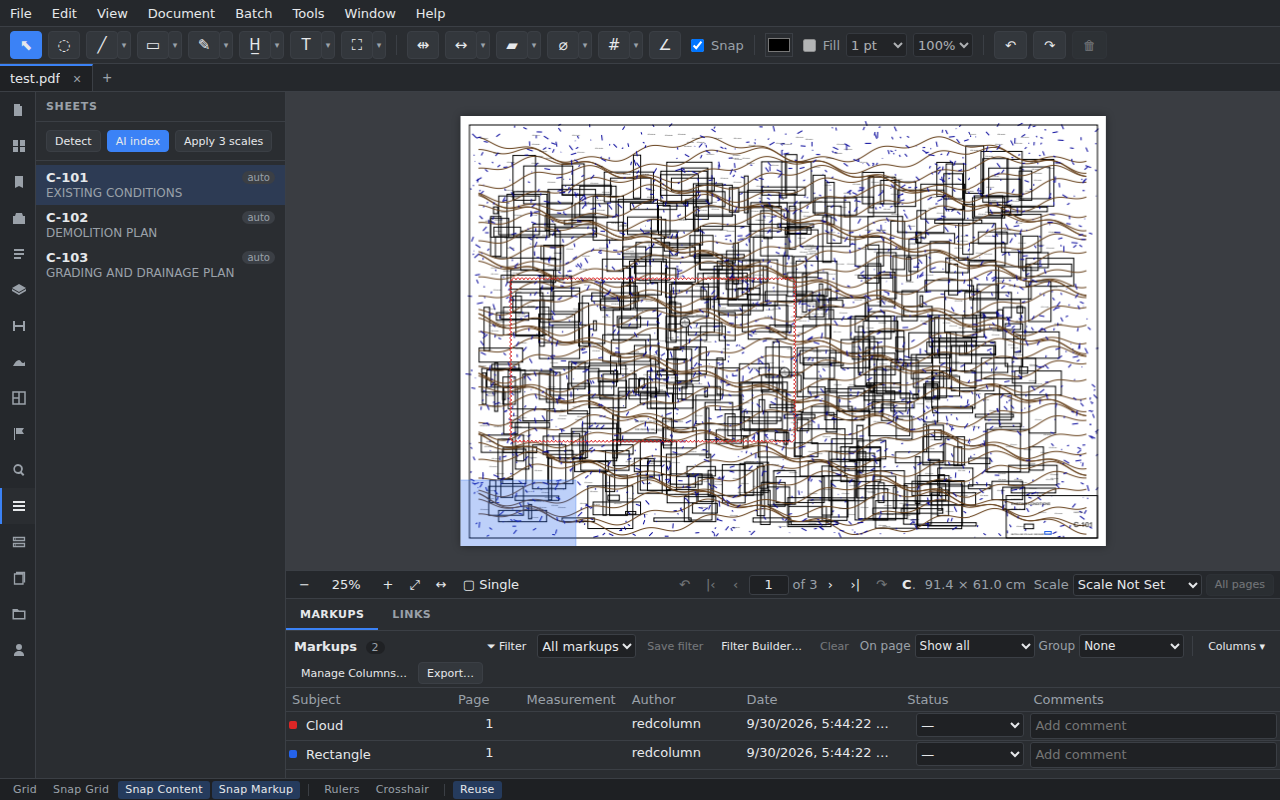
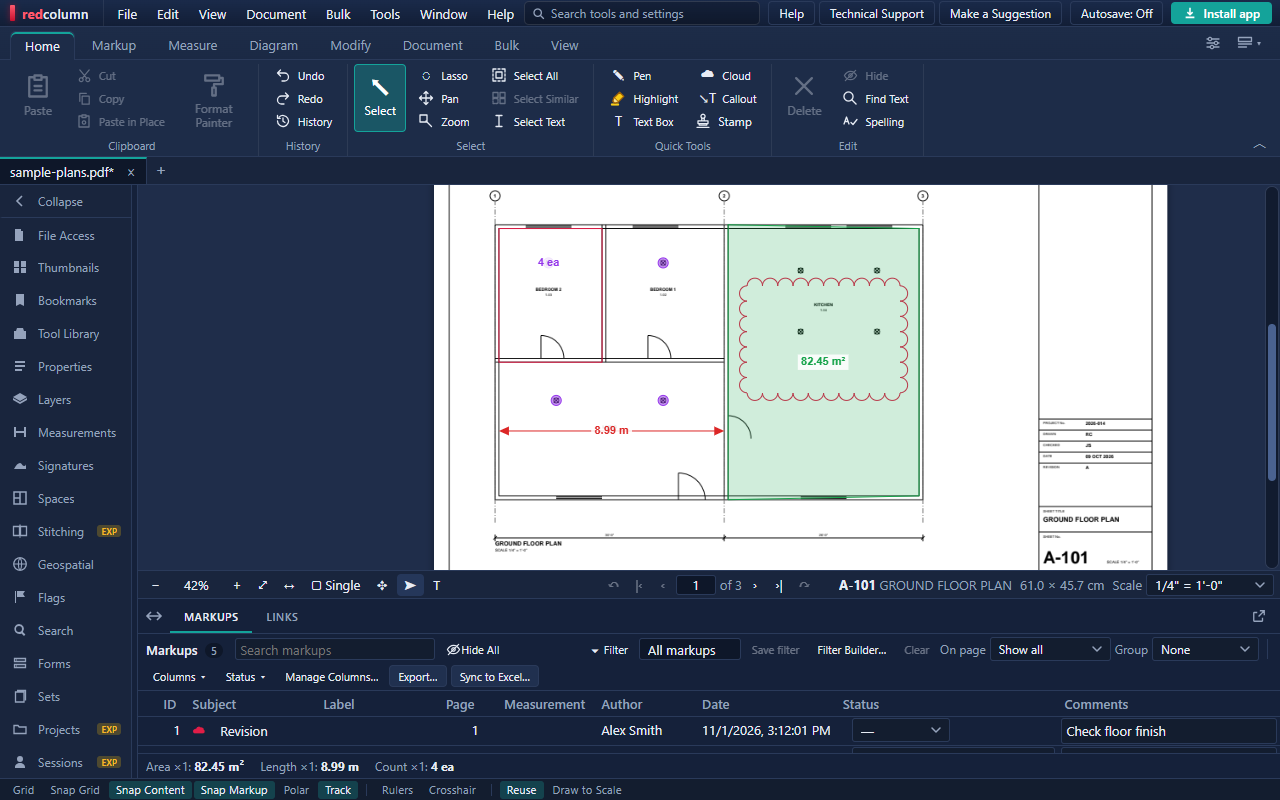
Landing page: new hero screenshot and clickable core cards
Retake the hero screenshot in the current theme (scripts/help/hero.cjs) and make each
core card link to its help page.

diff --git a/apps/web/public/home/index.html b/apps/web/public/home/index.html
@@ -49,13 +49,13 @@
       <section id="core" class="wrap">
         <h2>The PDF tools AEC work depends on</h2>
         <p class="sub">All the basics are here, done properly.</p>
-        <ul class="grid">
-          <li><h3>Markup and annotation</h3><p>Clouds, callouts, highlights, stamps, text, dimensions and more, with a markups list you can sort, filter and export.</p></li>
-          <li><h3>Scaled measurement</h3><p>Calibrate a scale, then measure length, area, perimeter, volume, angle and count straight from the drawing.</p></li>
-          <li><h3>Sheets and pages</h3><p>Sets, page labels, bookmarks, split, extract, insert, crop and batch operations on whole drawing sets.</p></li>
-          <li><h3>Compare and overlay</h3><p>Compare revisions and overlay one drawing on another to see what changed.</p></li>
-          <li><h3>Sign and secure</h3><p>Digital signatures, redaction, flattening and PDF/A output.</p></li>
-          <li><h3>Works with your files</h3><p>Opens and saves standard PDFs, and keeps markups intact when files go to and from other PDF tools.</p></li>
+        <ul class="grid cards">
+          <li><h3><a href="/help/#pages/markup-basics.md">Markup and annotation</a></h3><p>Clouds, callouts, highlights, stamps, text, dimensions and more, with a markups list you can sort, filter and export.</p></li>
+          <li><h3><a href="/help/#pages/measure-basics.md">Scaled measurement</a></h3><p>Calibrate a scale, then measure length, area, perimeter, volume, angle and count straight from the drawing.</p></li>
+          <li><h3><a href="/help/#pages/pages.md">Sheets and pages</a></h3><p>Sets, page labels, bookmarks, split, extract, insert, crop and batch operations on whole drawing sets.</p></li>
+          <li><h3><a href="/help/#pages/compare.md">Compare and overlay</a></h3><p>Compare revisions and overlay one drawing on another to see what changed.</p></li>
+          <li><h3><a href="/help/#pages/signatures.md">Sign and secure</a></h3><p>Digital signatures, redaction, flattening and PDF/A output.</p></li>
+          <li><h3><a href="/help/#pages/markup-exchange.md">Works with your files</a></h3><p>Opens and saves standard PDFs, and keeps markups intact when files go to and from other PDF tools.</p></li>
         </ul>
       </section>
 

diff --git a/apps/web/public/home/home.css b/apps/web/public/home/home.css
@@ -203,6 +203,40 @@ section.wrap {
   margin: 0;
   color: var(--muted);
 }
+.grid.cards li {
+  position: relative;
+  transition: border-color 0.15s, transform 0.15s;
+}
+.grid.cards li:hover,
+.grid.cards li:focus-within {
+  border-color: var(--accent);
+  transform: translateY(-2px);
+}
+.grid.cards h3 a {
+  color: var(--text);
+  text-decoration: none;
+}
+.grid.cards h3 a::after {
+  content: '';
+  position: absolute;
+  inset: 0;
+  border-radius: 10px;
+}
+.grid.cards h3 a:focus-visible {
+  outline: none;
+}
+.grid.cards li:has(a:focus-visible) {
+  outline: 3px solid var(--link);
+  outline-offset: 2px;
+}
+@media (prefers-reduced-motion: reduce) {
+  .grid.cards li {
+    transition: none;
+  }
+  .grid.cards li:hover {
+    transform: none;
+  }
+}
 .grid.compact {
   margin-top: 40px;
 }
